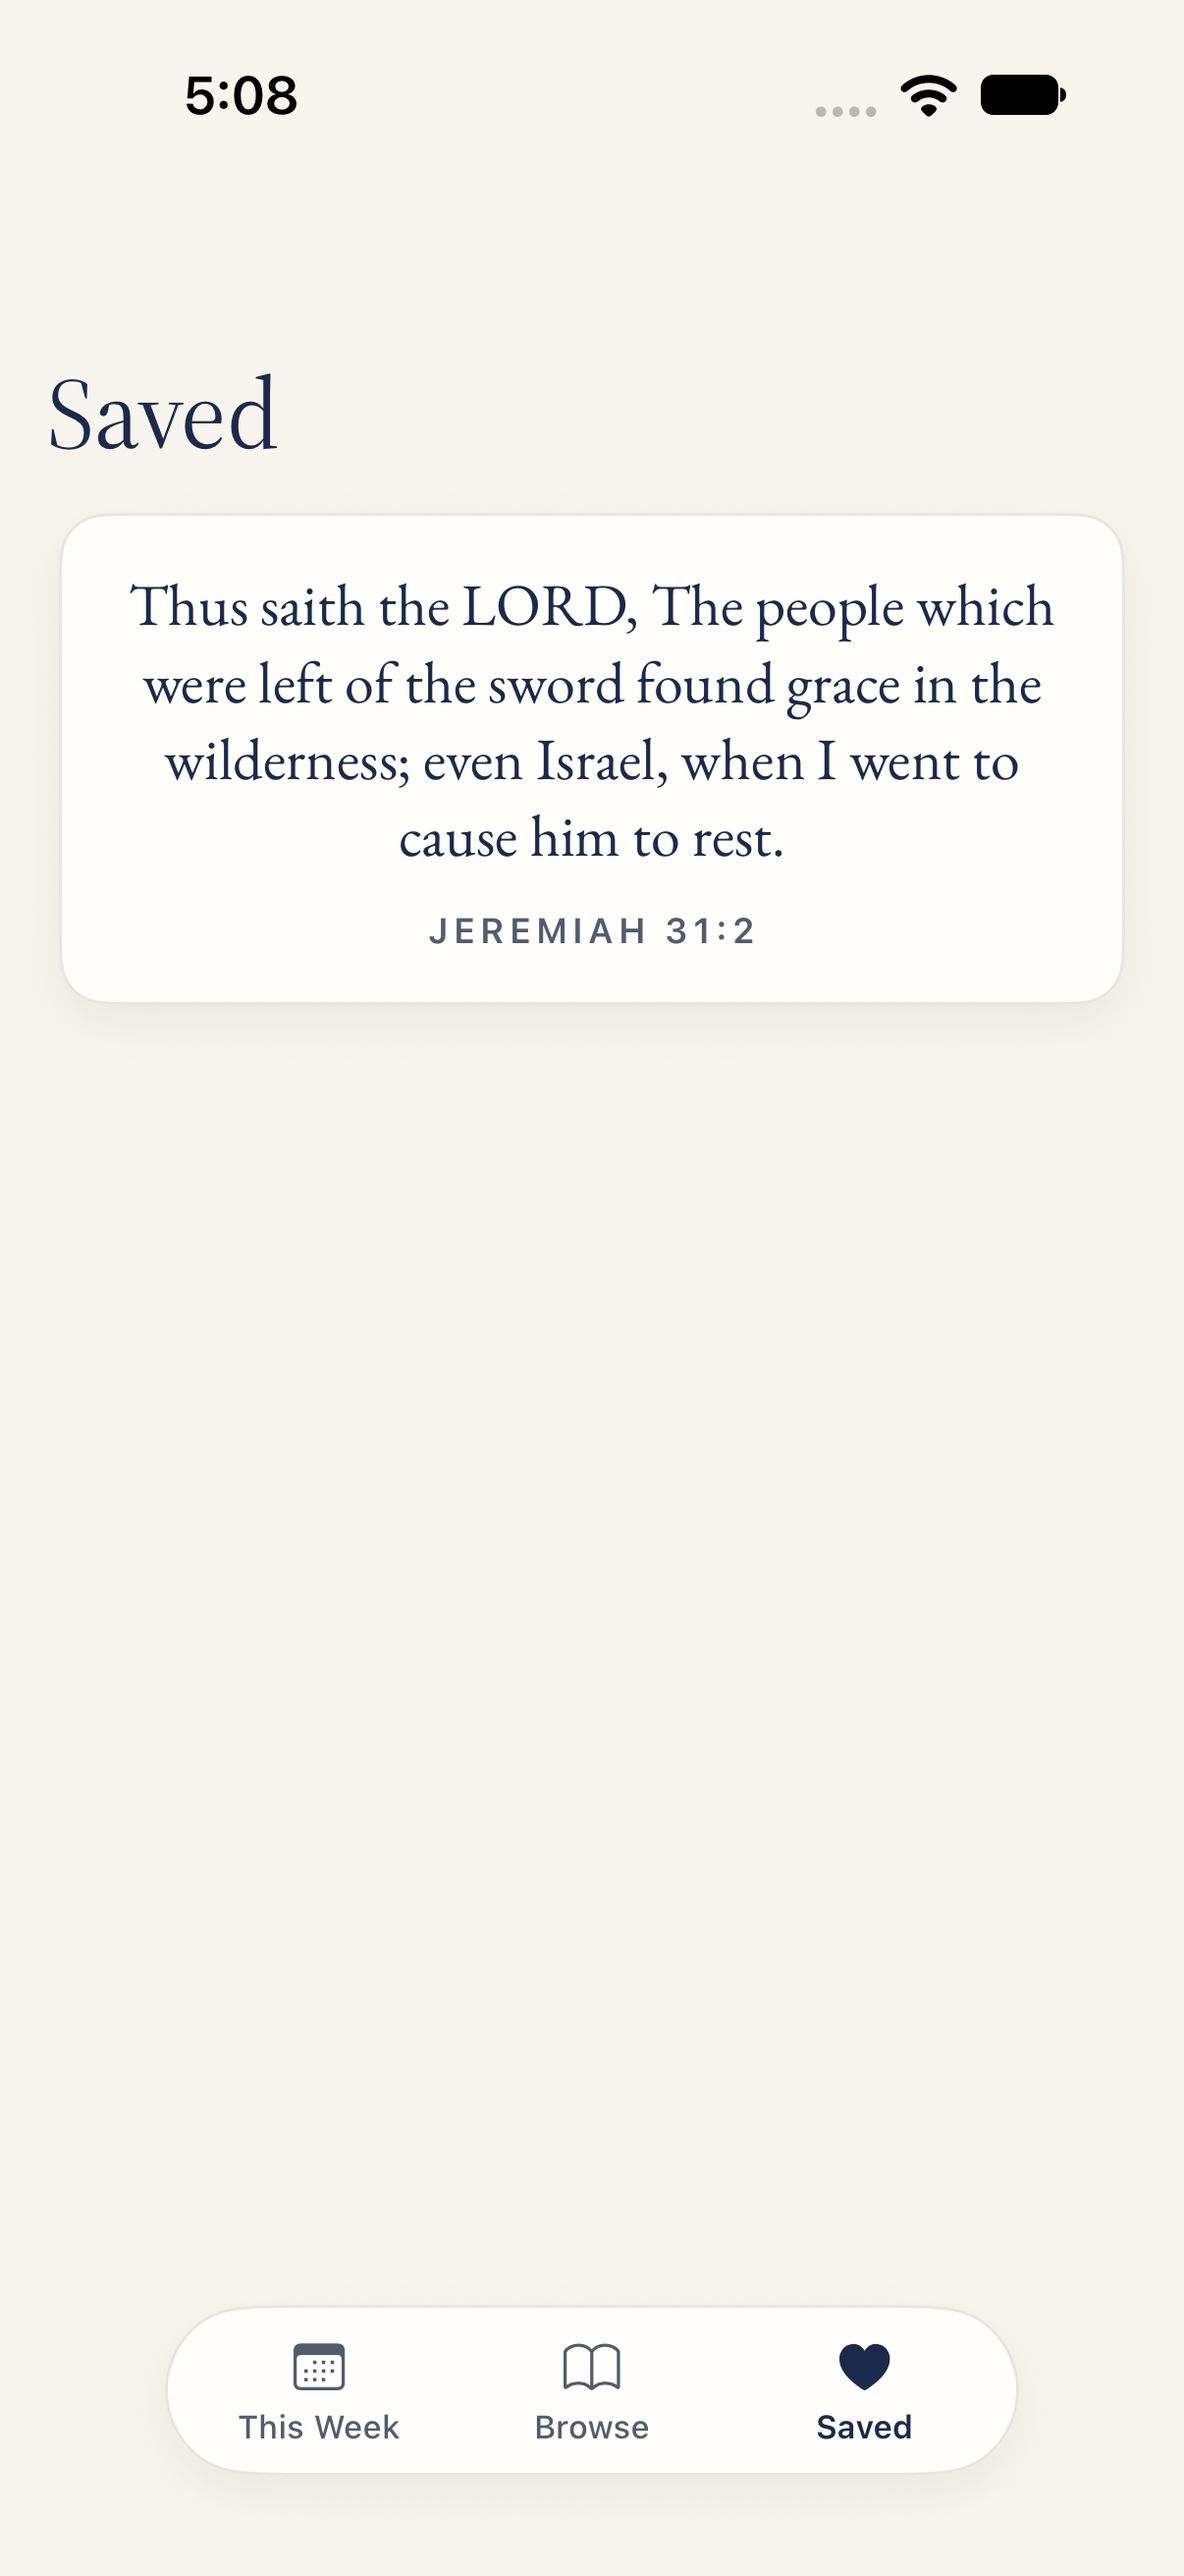
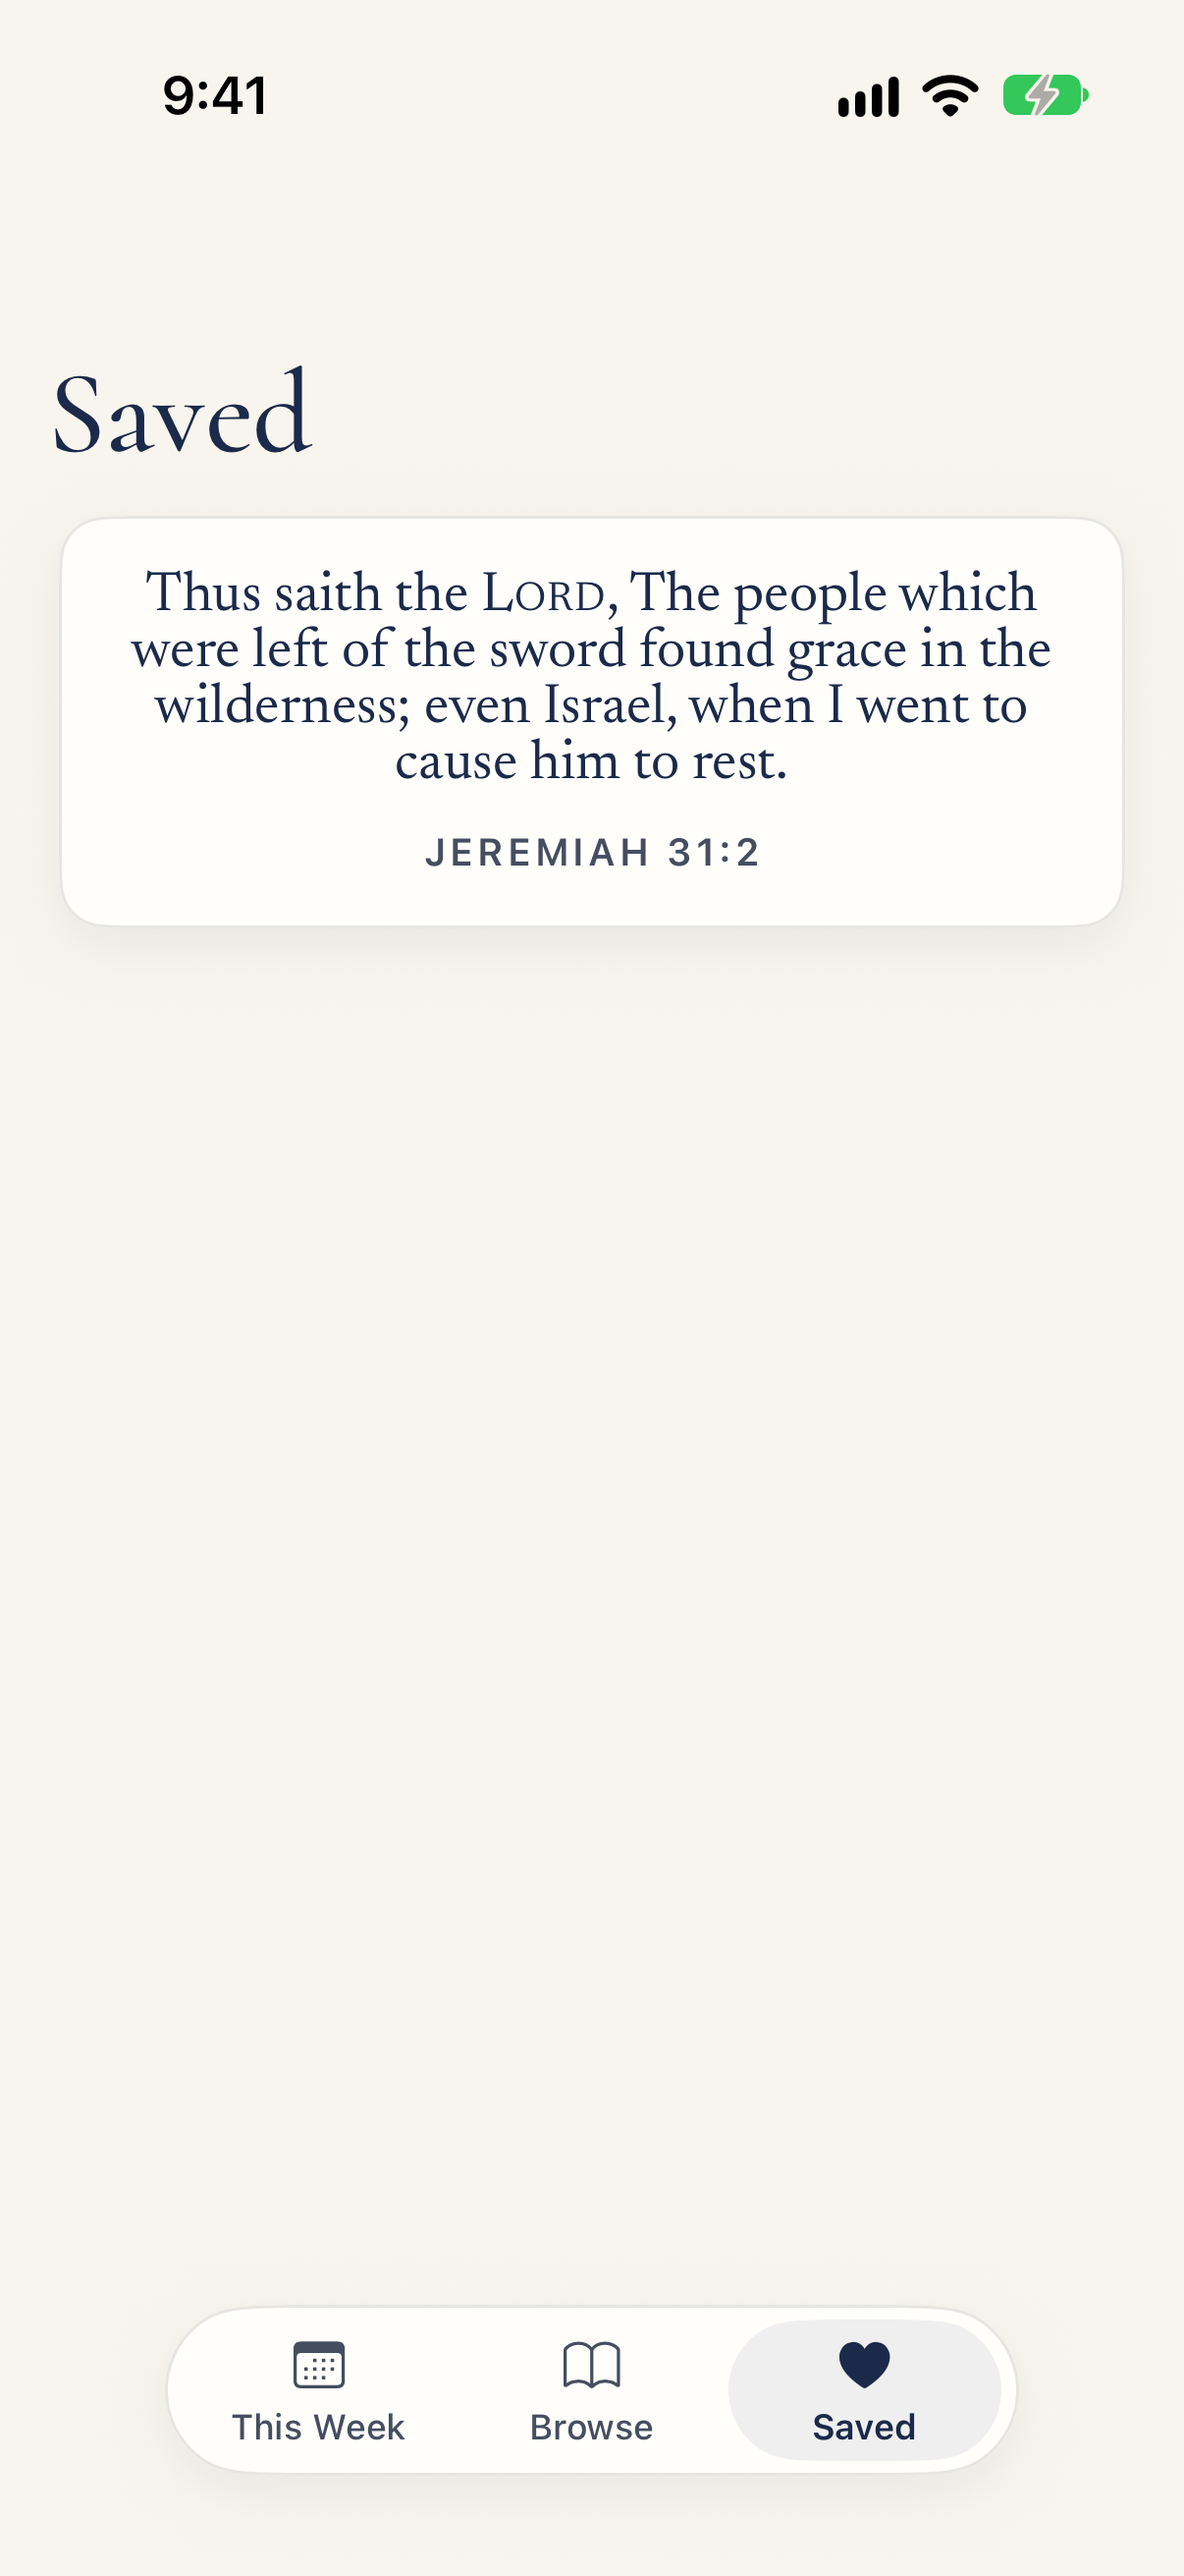
Retake the App Store and README screenshots in the Hardcover look, and open up the Saved verses' line spacing

diff --git a/VersedUITests/VersedUITests.swift b/VersedUITests/VersedUITests.swift
@@ -88,6 +88,10 @@ final class VersedUITests: XCTestCase {
 
         app.tab("Browse").tap()
         XCTAssertTrue(app.buttons["Reading Schedule"].waitForExistence(timeout: 5))
+        // One swipe over, so a book's edge shows on each side of the cover in front.
+        let covers = app.coordinate(withNormalizedOffset: CGVector(dx: 0.5, dy: 0.35))
+        covers.press(forDuration: 0.05, thenDragTo: covers.withOffset(CGVector(dx: -260, dy: 0)))
+        sleep(2)
         saveScreenshot(named: "3-browse")
 
         app.tab("Saved").tap()

diff --git a/Versed/Features/Saved/SavedVersesView.swift b/Versed/Features/Saved/SavedVersesView.swift
@@ -64,6 +64,7 @@ struct SavedVersesView: View {
         } label: {
             VStack(spacing: 12) {
                 VerseText(verse.text, size: 19, relativeTo: .body)
+                    .lineSpacing(3)
                     .lineLimit(6)
                     .foregroundStyle(.brand)
                 SmallCapsLabel(verse.reference)
